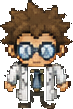
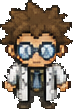
Fix professor slice (keep neck, fuller portrait) + upgrade slicer
- Re-slice professor with bg tolerance 16 (preserves the neck) and a 72% portrait
  so the full face shows. Bumped ART_V so it refreshes.
- slice.html now removes the background by BORDER FLOOD-FILL (per cell) instead of
  a global colour match, so interior dark pixels (outlines, neck, shadows) survive;
  added a 'Right = mirror of Left' option for sheets with no right pose; better
  default tolerance (18) and portrait (70%).

diff --git a/slice.html b/slice.html
@@ -64,7 +64,7 @@
         <button class="btn" id="sampleBtn">🎯 Click sheet to knock out a colour</button>
         <span class="sw" id="bgSw" style="background:transparent"></span>
       </div>
-      <div class="rowf"><label>tolerance <input id="tol" type="number" min="0" max="200" value="40"></label>
+      <div class="rowf"><label>tolerance <input id="tol" type="number" min="0" max="200" value="18"></label>
         <button class="btn" id="clearBg">transparent already</button></div>
     </div>
     <div class="grp">
@@ -73,12 +73,13 @@
                         <label>Up <input id="cUp" type="number" min="0" value="0"></label></div>
       <div class="rowf"><label>Left <input id="cLeft" type="number" min="0" value="0"></label>
                         <label>Right <input id="cRight" type="number" min="0" value="0"></label></div>
+      <label><input id="mirror" type="checkbox"> Right = mirror of Left (sheets with no right pose)</label>
       <div class="hint">Pick the STANDING frame for each facing.</div>
     </div>
     <div class="grp">
       <h3>Full sprite &amp; portrait</h3>
       <div class="rowf"><label>NPC cell <input id="cNpc" type="number" min="0" value="0"></label>
-                        <label>portrait % <input id="portPct" type="number" min="20" max="100" value="55"></label></div>
+                        <label>portrait % <input id="portPct" type="number" min="20" max="100" value="70"></label></div>
       <div class="hint">Portrait = top % of the full sprite (the head/shoulders).</div>
     </div>
   </div>
@@ -115,20 +116,34 @@ function cells(){
     list.push({i:r*cols+c, x:Math.round(m+c*(cw+g)), y:Math.round(m+r*(ch+g)), w:Math.round(cw), h:Math.round(ch)});
   return list;
 }
-function rebuildWork(){
+function rebuildWork(){   // display copy only — bg is removed per-cell by flood-fill (below)
   workCanvas = document.createElement('canvas'); workCanvas.width=baseCanvas.width; workCanvas.height=baseCanvas.height;
-  const x=workCanvas.getContext('2d'); x.drawImage(baseCanvas,0,0);
-  if(bgColor){ const id=x.getImageData(0,0,workCanvas.width,workCanvas.height), d=id.data, tol=gv('tol');
-    for(let i=0;i<d.length;i+=4){ if(Math.abs(d[i]-bgColor[0])<=tol&&Math.abs(d[i+1]-bgColor[1])<=tol&&Math.abs(d[i+2]-bgColor[2])<=tol) d[i+3]=0; }
-    x.putImageData(id,0,0); }
+  workCanvas.getContext('2d').drawImage(baseCanvas,0,0);
 }
-// extract a cell from workCanvas, auto-trim transparent border → {canvas,w,h}
+// Knock out the background ONLY where it connects to the cell's edges (a flood
+// fill), so dark pixels INSIDE the character (outlines, shadows, the neck) survive.
+function knockout(cv){
+  if(!bgColor) return cv;
+  const x=cv.getContext('2d'), w=cv.width, h=cv.height, tol=gv('tol');
+  const id=x.getImageData(0,0,w,h), d=id.data;
+  const near=i=>Math.abs(d[i]-bgColor[0])<=tol&&Math.abs(d[i+1]-bgColor[1])<=tol&&Math.abs(d[i+2]-bgColor[2])<=tol;
+  const seen=new Uint8Array(w*h), st=[];
+  const push=(px,py)=>{ if(px<0||py<0||px>=w||py>=h) return; const k=py*w+px; if(seen[k]) return; seen[k]=1; if(near(k*4)) st.push(k); };
+  for(let px=0;px<w;px++){ push(px,0); push(px,h-1); }
+  for(let py=0;py<h;py++){ push(0,py); push(w-1,py); }
+  while(st.length){ const k=st.pop(); d[k*4+3]=0; const px=k%w, py=(k/w)|0; push(px+1,py); push(px-1,py); push(px,py+1); push(px,py-1); }
+  x.putImageData(id,0,0); return cv;
+}
+// extract a cell, knock out the background, auto-trim → {canvas,w,h}
 function frame(idx){
   const cl=cells(); const c=cl[idx]; if(!c) return null;
   const t=document.createElement('canvas'); t.width=c.w; t.height=c.h;
   t.getContext('2d').drawImage(workCanvas, c.x,c.y,c.w,c.h, 0,0,c.w,c.h);
+  knockout(t);
   return trim(t);
 }
+function mirrorFrame(f){ if(!f) return null; const c=document.createElement('canvas'); c.width=f.canvas.width; c.height=f.canvas.height;
+  const x=c.getContext('2d'); x.imageSmoothingEnabled=false; x.translate(c.width,0); x.scale(-1,1); x.drawImage(f.canvas,0,0); return {canvas:c,w:f.w,h:f.h}; }
 function trim(cv){
   const x=cv.getContext('2d'), w=cv.width, h=cv.height, d=x.getImageData(0,0,w,h).data;
   let a=w,b=h,e=-1,f=-1;
@@ -140,7 +155,9 @@ function trim(cv){
 }
 // build the 4-frame vertical walk strip, each frame bottom-centre on a uniform cell
 function buildWalk(){
-  const fs=[frame(gv('cDown')),frame(gv('cUp')),frame(gv('cLeft')),frame(gv('cRight'))];
+  const down=frame(gv('cDown')), up=frame(gv('cUp')), left=frame(gv('cLeft'));
+  const right = $('mirror').checked ? mirrorFrame(left) : frame(gv('cRight'));
+  const fs=[down,up,left,right];
   if(fs.some(f=>!f)) return null;
   const fw=Math.max(...fs.map(f=>f.w)), fh=Math.max(...fs.map(f=>f.h));
   const out=document.createElement('canvas'); out.width=fw; out.height=fh*4;
@@ -201,6 +218,7 @@ $('sheet').addEventListener('click',e=>{
 });
 ['cols','rows','margin','gutter','tol','cDown','cUp','cLeft','cRight','cNpc','portPct','zoom']
   .forEach(id=>$(id).addEventListener('input',render));
+$('mirror').addEventListener('change',render);
 function dl(cv,suffix){ if(!cv){alert('Nothing to export yet — load a sheet first.');return;} const a=document.createElement('a');
   a.href=cv.toDataURL('image/png'); a.download=($('key').value||'character')+'.png'; a.click(); }
 $('dlWalk').onclick=()=>dl(buildWalk());

diff --git a/index.html b/index.html
@@ -5,7 +5,7 @@
   <meta name="viewport" content="width=device-width, initial-scale=1.0, maximum-scale=1.0, user-scalable=no">
   <title>Lukeymon</title>
   <link href="https://fonts.googleapis.com/css2?family=Press+Start+2P&display=swap" rel="stylesheet">
-  <link rel="stylesheet" href="style.css?v=3.1.0">
+  <link rel="stylesheet" href="style.css?v=3.1.1">
 </head>
 <body>
 
@@ -422,12 +422,12 @@
   </div><!-- /device -->
   <div id="version-bar">
     <button id="hard-refresh" title="Hard refresh — force reload the latest version">⟳</button>
-    <span id="version">v3.1.0</span>
+    <span id="version">v3.1.1</span>
   </div>
 
-  <script src="world.js?v=3.1.0"></script>
-  <script src="data.js?v=3.1.0"></script>
-  <script src="game.js?v=3.1.0"></script>
-  <script src="net.js?v=3.1.0"></script>
+  <script src="world.js?v=3.1.1"></script>
+  <script src="data.js?v=3.1.1"></script>
+  <script src="game.js?v=3.1.1"></script>
+  <script src="net.js?v=3.1.1"></script>
 </body>
 </html>

diff --git a/game.js b/game.js
@@ -850,7 +850,7 @@ function buildTileCache() {
 }
 
 // ── Sliced biome art (per-zone tiles, trees, shop building) ──────────
-const ART_V = '6';   // bump to bust the image cache when art files change
+const ART_V = '7';   // bump to bust the image cache when art files change
 const TILE_ART = {
   0: { 0: 3, 1: 3, 3: 3 }, 1: { 1: 3, 3: 3, 4: 3 }, 2: { 1: 3, 5: 3 },
   3: { 0: 3, 1: 3, 3: 3 }, 4: { 0: 3, 1: 3, 7: 3 }, 5: { 0: 3, 1: 3, 11: 1 },
